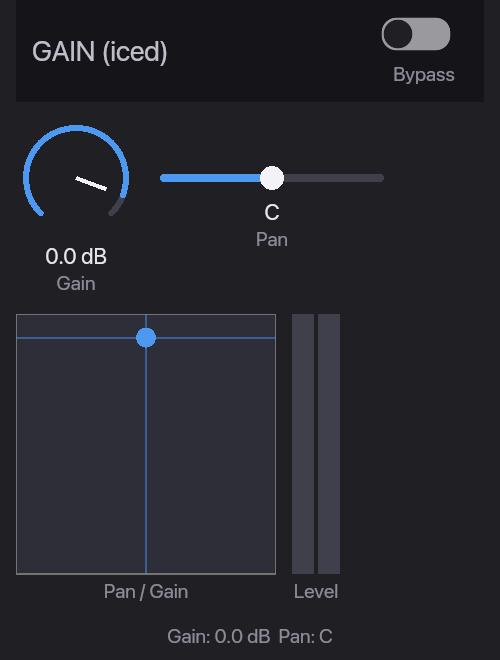
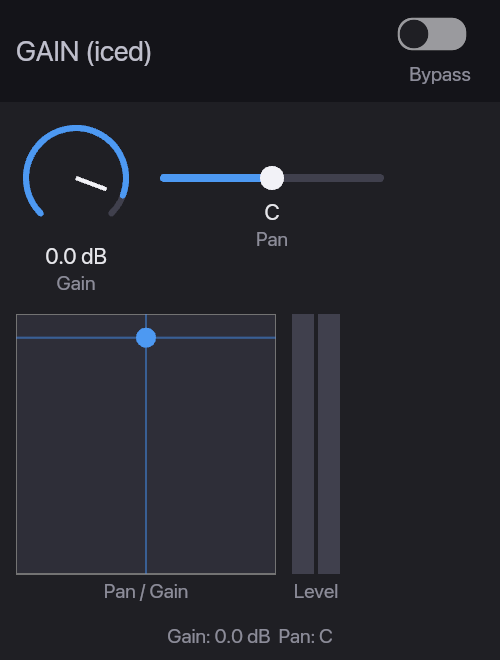
DPI for iced screenshots

Changed region(s): [[0.75, 0.0, 0.96, 0.1212], [0.03, 0.0606, 0.33, 0.0909], [0.87, 0.0, 0.9, 0.0303]]

diff --git a/crates/truce-iced/src/snapshot.rs b/crates/truce-iced/src/snapshot.rs
@@ -7,6 +7,7 @@
 use std::sync::Arc;
 
 use iced::{Color, Size};
+use iced_graphics;
 use iced_wgpu::wgpu;
 use truce_params::Params;
 
@@ -59,8 +60,11 @@ where
     // Use sRGB to match the windowed Metal surface (Bgra8UnormSrgb).
     let format = wgpu::TextureFormat::Bgra8UnormSrgb;
 
-    // Create iced engine + renderer
-    let engine = iced_wgpu::Engine::new(&adapter, &device, &queue, format, None);
+    // Create iced engine + renderer (MSAA 4x for smooth edges)
+    let engine = iced_wgpu::Engine::new(
+        &adapter, &device, &queue, format,
+        Some(iced_graphics::Antialiasing::MSAAx4),
+    );
 
     let mut renderer = iced_wgpu::Renderer::new(
         &device,

diff --git a/examples/gain-iced/src/lib.rs b/examples/gain-iced/src/lib.rs
@@ -123,18 +123,17 @@ impl IcedPlugin<GainParams> for GainUi {
         .align_x(alignment::Horizontal::Center)
         .into();
 
-        Column::new()
-            .push(header)
+        let body: Element<'a, Message<GainMsg>> = Column::new()
             .push(top_row)
             .push(bottom_row)
             .push(footer)
             .spacing(gap)
-            .padding(iced::Padding {
-                top: 0.0,
-                right: pad,
-                bottom: pad,
-                left: pad,
-            })
+            .padding(pad)
+            .into();
+
+        Column::new()
+            .push(header)
+            .push(body)
             .into()
     }
 }

diff --git a/examples/README.md b/examples/README.md
@@ -1,14 +1,20 @@
 # Examples
 
-Five example plugins covering effects, instruments, and MIDI processors.
+Example plugins covering effects, instruments, MIDI processors, and
+GUI framework integrations.
 
-| Plugin                      | Type        | Description                                           |
-|-----------------------------|-------------|-------------------------------------------------------|
-| [gain](gain/)               | Effect      | Gain + pan with metering, XY pad, bypass              |
-| [eq](eq/)                   | Effect      | 3-band parametric EQ with biquad filters              |
-| [synth](synth/)             | Instrument  | 16-voice poly synth with oscillator, filter, ADSR     |
-| [transpose](transpose/)     | MIDI Effect | Note transposition with stuck-note prevention         |
-| [arpeggio](arpeggio/)       | MIDI Effect | Tempo-synced arpeggiator with 4 patterns              |
+## Plugins
+
+| Plugin                      | Type        | GUI     | Description                                       |
+|-----------------------------|-------------|---------|---------------------------------------------------|
+| [gain](gain/)               | Effect      | Built-in | Gain + pan with metering, XY pad, bypass         |
+| [eq](eq/)                   | Effect      | Built-in | 3-band parametric EQ with biquad filters         |
+| [synth](synth/)             | Instrument  | Built-in | 16-voice poly synth with oscillator, filter, ADSR|
+| [transpose](transpose/)     | MIDI Effect | Built-in | Note transposition with stuck-note prevention    |
+| [arpeggio](arpeggio/)       | MIDI Effect | Built-in | Tempo-synced arpeggiator with 4 patterns         |
+| [gain-egui](gain-egui/)     | Effect      | egui     | Gain plugin with egui knobs, sliders, XY pad     |
+| [gain-iced](gain-iced/)     | Effect      | Iced     | Gain plugin with iced auto-generated + custom UI |
+| [gain-slint](gain-slint/)   | Effect      | Slint    | Gain plugin with declarative `.slint` markup     |
 
 ## Building
 
@@ -27,9 +33,17 @@ Each example follows the same layout:
 ```
 examples/<name>/
 ├── Cargo.toml       # dependencies + feature flags
-├── truce.toml       # plugin metadata (name, IDs, category)
 └── src/
     └── lib.rs       # plugin implementation
+```
+
+GUI examples may have additional files:
+
+```
+examples/gain-slint/
+├── build.rs         # slint-build compilation
+└── ui/
+    └── main.slint   # declarative UI markup
 ```
 
 Additional source files: `synth/src/voice.rs` (voice/envelope/oscillator), `eq/src/biquad.rs` (biquad filter).
